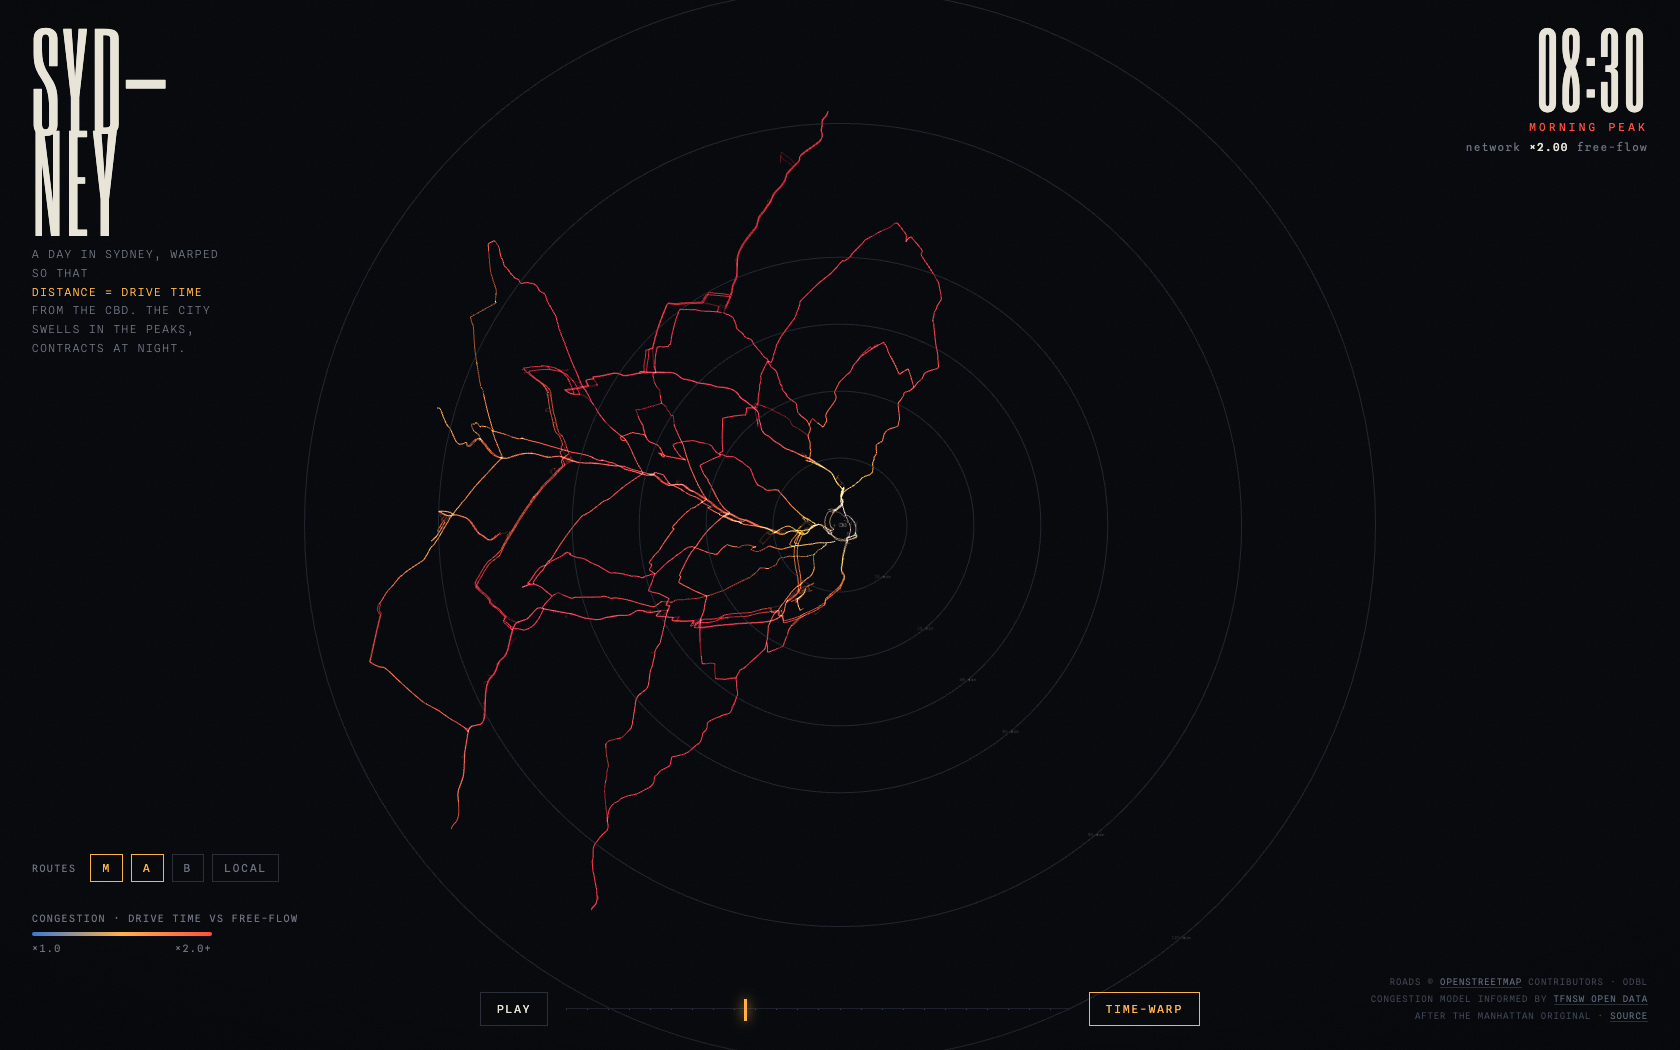
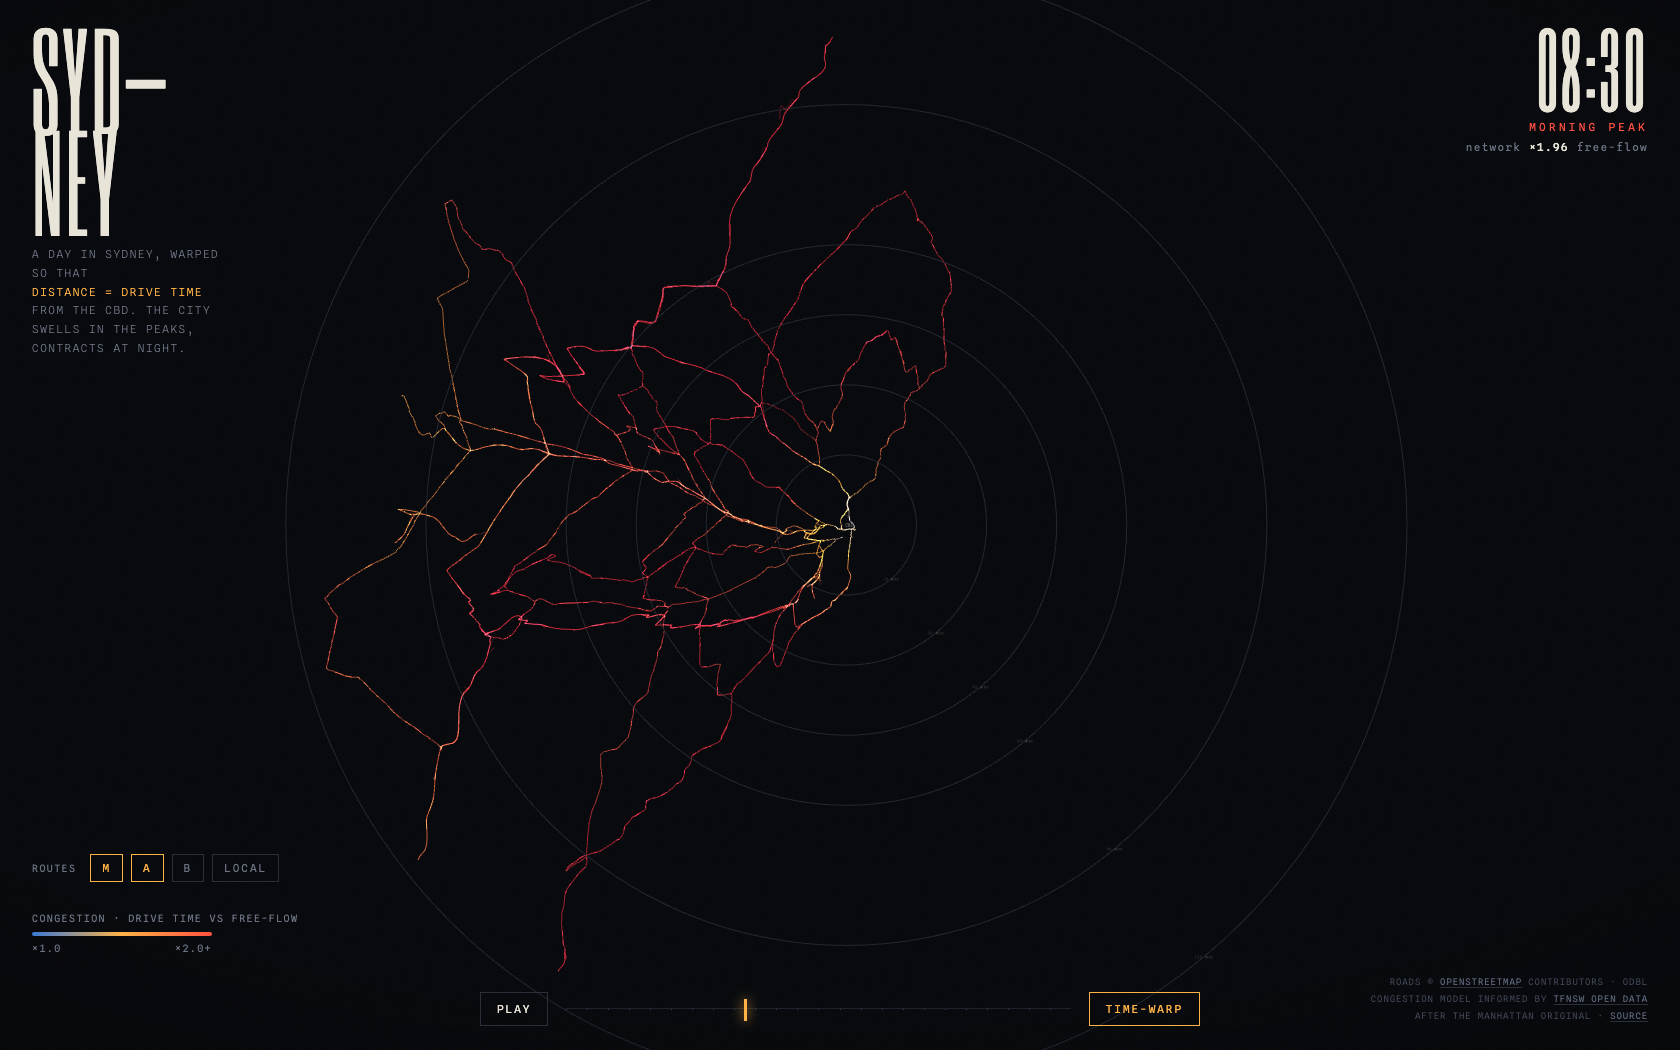
docs: v1.3 — merged carriageways, static peak-framed camera, ×2.4 swell

diff --git a/CLAUDE.md b/CLAUDE.md
@@ -58,12 +58,16 @@ index.html         Entry point, import map for three.js, UI chrome (clock, slide
   times interpolated along their edge by distance fraction.
 - **Strip meta packing**: position.z = class + 16 × category; the shader decodes both.
   Category visibility (M/A/B/other filter) is a uCatVis uniform — no rebuilds.
+- **Dual carriageways are merged in the pipeline**: nodes snap to a 75 m cluster
+  grid; junction detection, the graph and edge dedupe operate on clusters, so both
+  carriageways share drive times and only one path is drawn.
 - **Peak swell is exaggerated**: the shader shows tN + uSwell·(t − tN) with
-  uSwell = 1.6 (?swell= overrides) so congestion reads as curvature. Night layout
-  and the HUD slowdown factor stay truthful.
-- **Auto-fit zoom**: per-category extents are precomputed at load; each frame the
-  visible network's blended reach drives camera.zoom so the balloon never clips the
-  viewport. User zoom survives multiplicatively.
+  uSwell = 2.4 (?swell= overrides, 1–4) so congestion reads as curvature. Night
+  layout and the HUD slowdown factor stay truthful.
+- **The camera never rescales with the swell** (a breathing auto-fit was tried and
+  removed — it cancelled the size change that is the visualisation). camera.zoom is
+  set once at load to frame the peak extent of the visible categories; the pivot is
+  fixed ~1.5 km west of the CBD and zoomToCursor is off.
 - **Coastline data exists but is not rendered** — it drew jagged artifacts where
   coast vertices fell back to pseudo-times (removed in v1.2.0; pipeline still emits
   the sections).

diff --git a/README.md b/README.md
@@ -36,13 +36,16 @@ OpenStreetMap (Overpass API)
 - **Rings** = 15/30/45/60/90/120-minute isochrones — circles, by construction.
 - **Filters** = NSW route categories from OSM `ref` tags: M and A routes by default;
   B and unsigned local roads toggleable.
-- **Swell** = peak displacement beyond free-flow is amplified ×1.6 so congestion
+- **One path per road** = dual carriageways are merged in the pipeline (nodes snap
+  to a 75 m cluster grid; the parallel edge is deduped).
+- **Swell** = peak displacement beyond free-flow is amplified ×2.4 so congestion
   reads as curvature; the night layout and the HUD ×N factor stay truthful.
-- **Camera** = fixed top-down plan view centred on the CBD, breathing out
-  automatically as the network balloons so the whole map stays in frame.
+- **Camera** = fixed top-down plan view pivoting ~1.5 km west of the CBD, framed
+  once to the peak extent — the camera never rescales with the swell, so the
+  day-cycle growth plays out 1:1 on screen.
 - Toggle **Time-warp / Geographic** to morph between the two layouts.
 - URL params: `?h=8.5` start the clock at 08:30, `?play=0` pause, `?cats=mabl`
-  pick route categories, `?swell=2` push the exaggeration (1–3).
+  pick route categories, `?swell=3` push the exaggeration (1–4).
 
 ## Congestion model
 